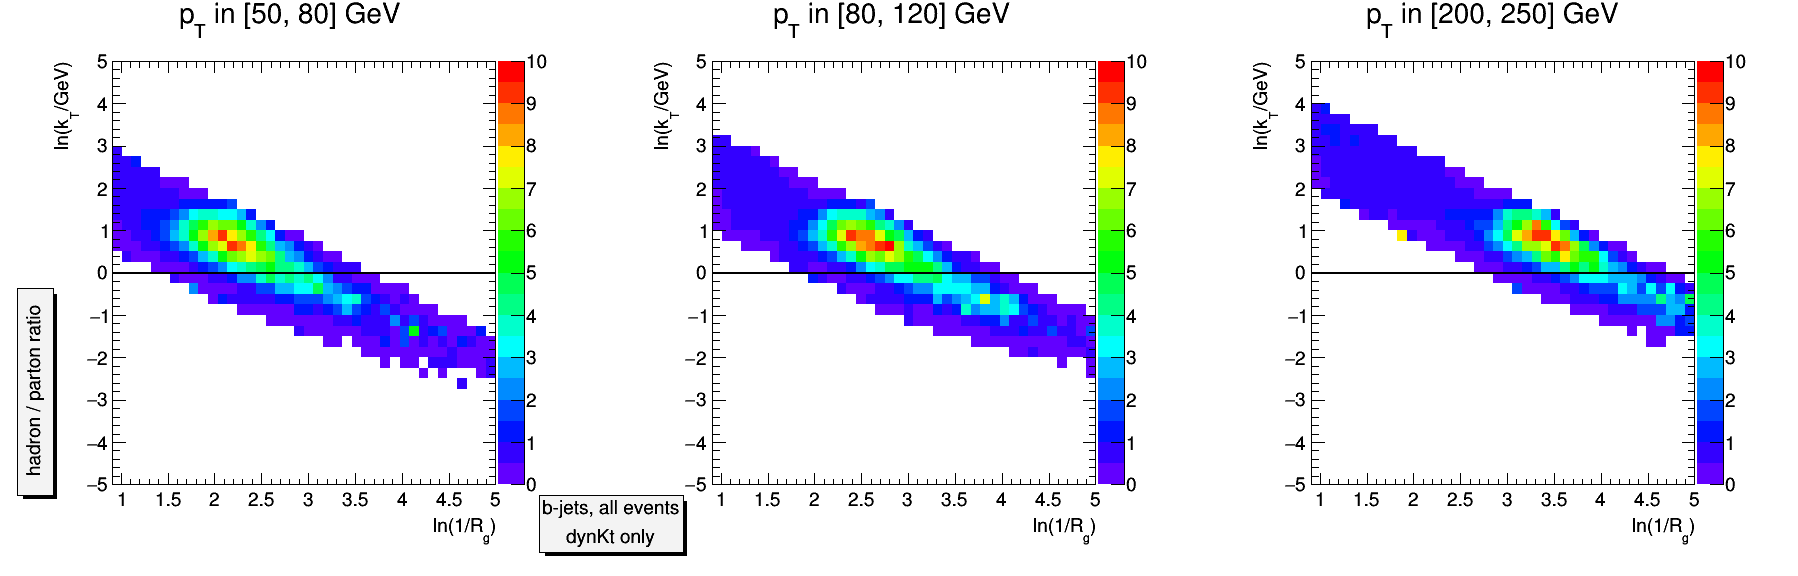
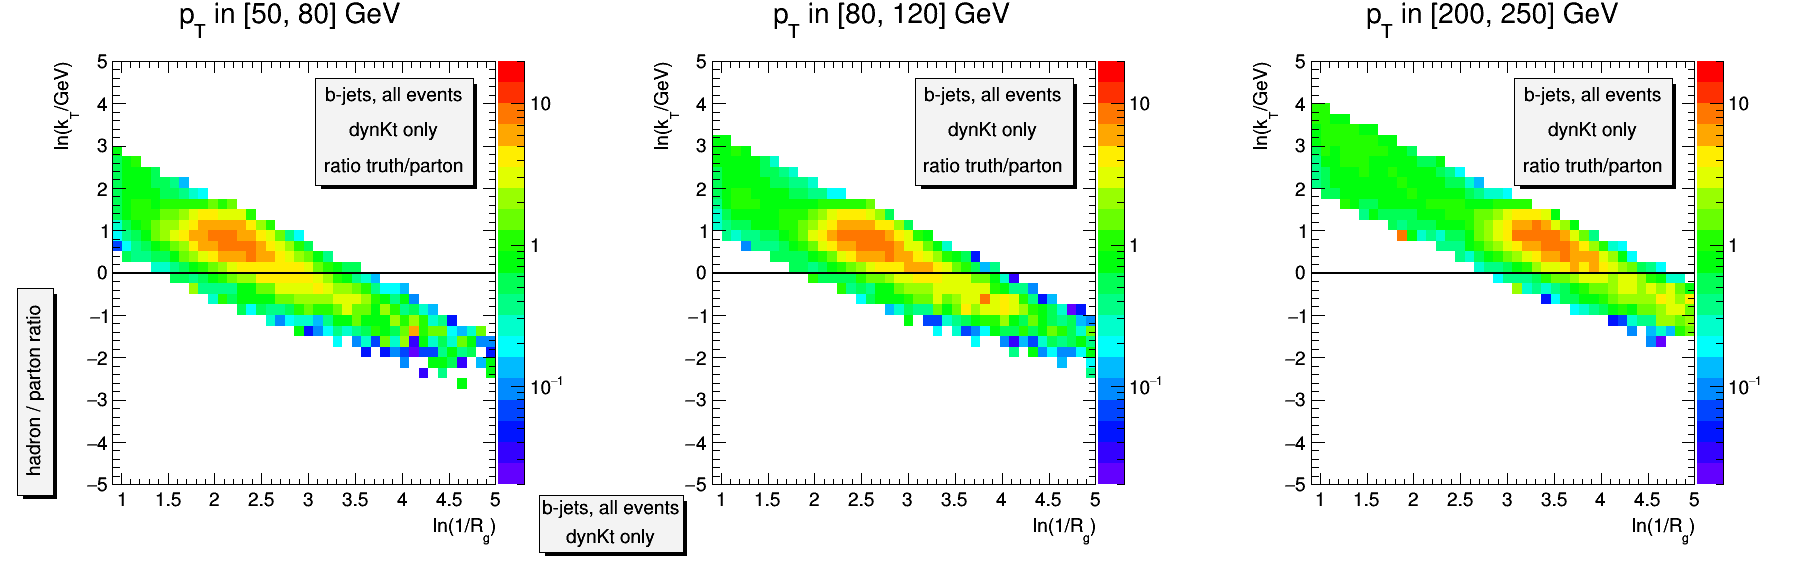
update z log axis in normal pt2dscan

diff --git a/myMacros/pt2dscan/draw_pt2dscan_ratio.C b/myMacros/pt2dscan/draw_pt2dscan_ratio.C
@@ -9,7 +9,7 @@
 
 using namespace std;
 
-void draw_pt2dscan_ratio(char qtype = 'Β', bool ktORzg = true, bool dynKt = true)
+void draw_pt2dscan_ratio(char qtype = 'L', bool ktORzg = true, bool dynKt = true)
 {       
     string histfile_ref = "~/rootFiles/pt2dscan_ref.root";
     string histfile_par = "~/rootFiles/pt2dscan_par.root";
@@ -87,22 +87,22 @@ void draw_pt2dscan_ratio(char qtype = 'Β', bool ktORzg = true, bool dynKt = tru
         Float_t ptmax = ptrange[i][1];
         
         Float_t zmin = 0.;
-        Float_t zmax = 10.;
-        /*
+        Float_t zmax = 20.;
+        
         if (qtype == 'C') { 
             if (dynKt) {
-                zmax = 4.;
+                zmax = 10.;
             } else {
                 zmax = 10.;
             }
         } else if (qtype == 'L') {
             if (dynKt) {
-                zmax = 5.;
+                zmax = 10.;
             } else {
                 zmax = 7.;
             }
         }
-        */
+        
         
         if (!ktORzg) {
         }  
@@ -200,7 +200,7 @@ void draw_pt2dscan_ratio(char qtype = 'Β', bool ktORzg = true, bool dynKt = tru
     savename += ".png";
 
     c->Draw();
-    //c->Print(savename.c_str());
+    c->Print(savename.c_str());
 
     //c->Show();
 }
